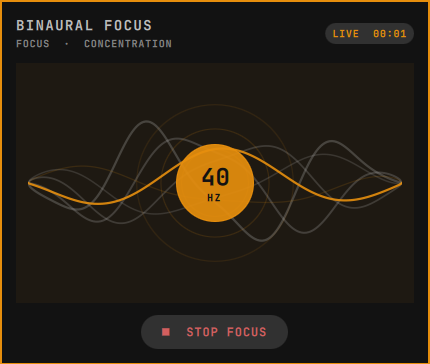
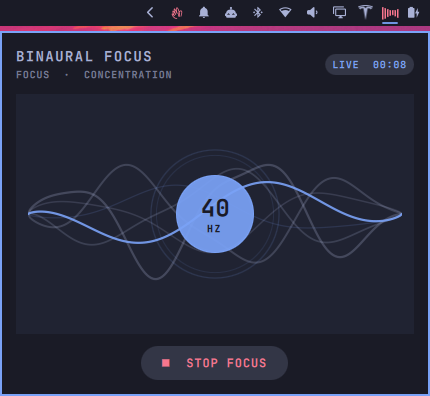
Add live Tokyo Night preview

diff --git a/README.md b/README.md
@@ -4,9 +4,11 @@ A one-click, fully offline 40 Hz binaural player for the Omarchy Quattro bar. It
 
 The bundled sound is original and mathematically generated—no recordings or samples are used. The left channel carries a 134 Hz sine wave and the right channel carries a 174 Hz sine wave, creating a 40 Hz binaural difference. A compact five-minute Opus asset loops continuously during longer sessions.
 
+![Binaural Focus playing in the Omarchy bar](preview.png)
+
 ## Install
 
-Install and enable the plugin from its public repository:
+Install and enable the plugin from its GitHub repository:
 
 ```bash
 omarchy plugin add https://github.com/elgevan/omarchy-binaural-focus.git --enable
@@ -75,6 +77,6 @@ Playback is local and offline. The plugin starts only the bundled `mpv` player, 
 ## License
 
 - Plugin code and documentation: MIT; see [`LICENSE`](LICENSE).
-- Generated audio and marketplace preview: CC0-1.0; see [`LICENSES/CC0-1.0.txt`](LICENSES/CC0-1.0.txt).
+- Generated audio and plugin-authored preview artwork: CC0-1.0; see [`LICENSES/CC0-1.0.txt`](LICENSES/CC0-1.0.txt).
 
 See [`NOTICE.md`](NOTICE.md) for asset provenance and licensing scope.

diff --git a/NOTICE.md b/NOTICE.md
@@ -19,4 +19,4 @@ The generated audio asset is dedicated to the public domain under CC0-1.0. See [
 
 ## Marketplace preview
 
-`preview.png` is a capture of this plugin's own interface and contains no third-party artwork. It is dedicated to the public domain under CC0-1.0.
+`preview.png` is a live capture of the plugin running in the Omarchy shell. It excludes the desktop wallpaper. The plugin-authored visual content is dedicated to the public domain under CC0-1.0. Contextual Omarchy shell chrome and iconography remain subject to their upstream terms.
